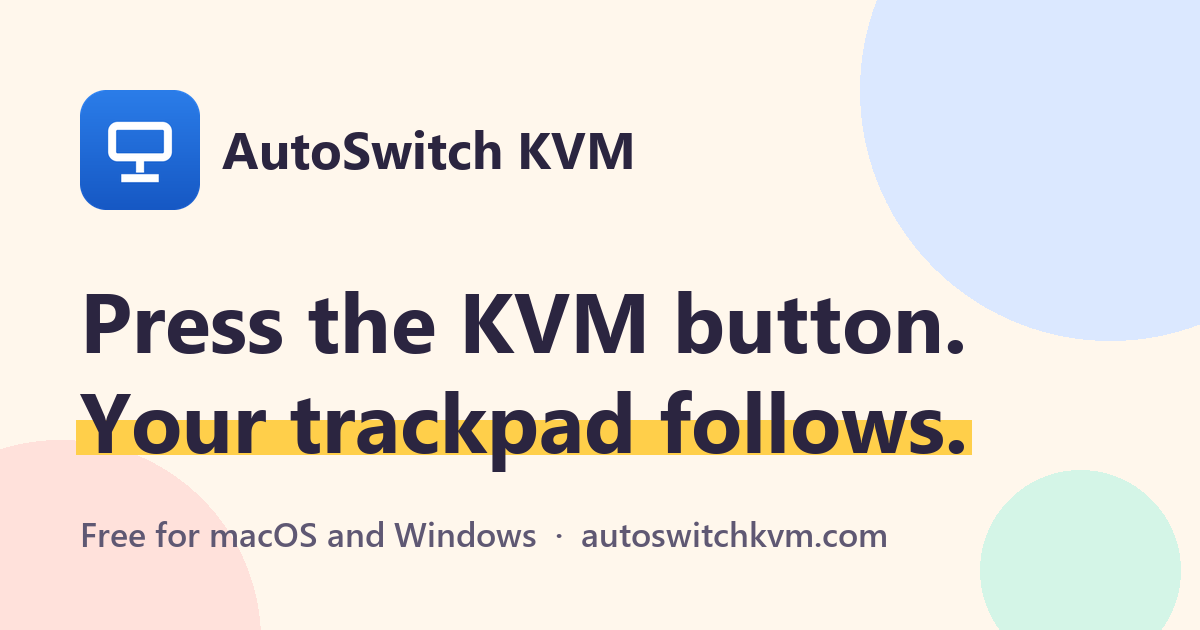
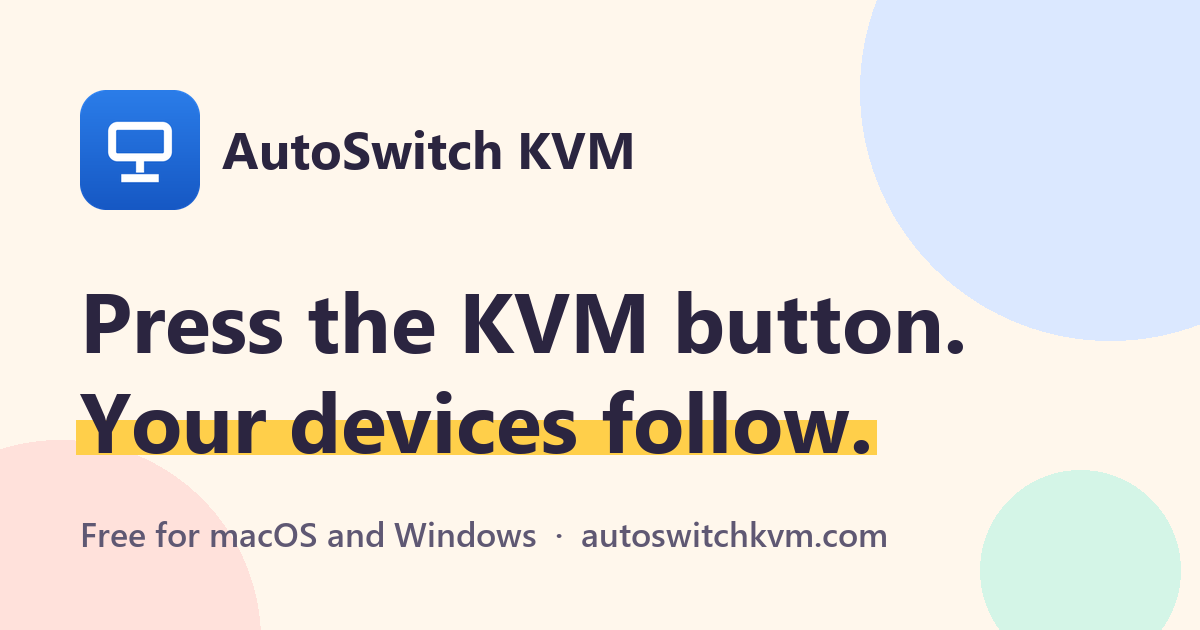
READMEs + website: keyboard, mouse and trackpad (Apple Magic + Logitech Easy-Switch), not trackpad-only
Root/Windows/macOS READMEs and the website hero, a new Works-with section, problem and feature
copy name both supported families (hands off by pairing / switches channel) and point everything
else to the device guide. Social image regenerated. agent-note to osx (light edit in its README).

Changed region(s): [[0.2158, 0.6032, 0.8325, 0.754]]

diff --git a/website/src/assets/css/site.css b/website/src/assets/css/site.css
@@ -349,3 +349,13 @@ p { margin: 0 0 1em; }
 .receiver-tip { margin-top: 24px; background: var(--card); border-radius: var(--radius); padding: 24px 26px; box-shadow: var(--shadow); border-left: 6px solid var(--blue); }
 .receiver-tip h2 { font-size: 1.25rem; margin-bottom: .4em; }
 .receiver-tip p { color: var(--ink-soft); margin: 0; }
+
+/* ---------- Works with (home) ---------- */
+.works { padding-top: clamp(20px, 3vw, 40px); }
+.works__list { list-style: none; padding: 0; margin: 28px 0 0; display: grid; grid-template-columns: repeat(3, 1fr); gap: 18px; }
+@media (max-width: 900px) { .works__list { grid-template-columns: 1fr; } }
+.works__item { background: var(--card); border-radius: var(--radius); padding: 24px; box-shadow: var(--shadow); border-top: 6px solid var(--mint); }
+.works__item--other { border-top-color: var(--lilac); }
+.works__item h3 { font-size: 1.2rem; }
+.works__item p { color: var(--ink-soft); margin: 0 0 .8em; }
+.works__how { font-weight: 800; font-size: .92rem; color: var(--ink) !important; margin: 0 !important; }

diff --git a/website/src/_data/site.js b/website/src/_data/site.js
@@ -3,9 +3,9 @@
 export default {
   name: "AutoSwitch KVM",
   url: "https://autoswitchkvm.com",
-  tagline: "Your Bluetooth trackpad follows your KVM switch.",
+  tagline: "Your Bluetooth keyboard, mouse and trackpad follow your KVM switch.",
   description:
-    "AutoSwitch KVM moves your Bluetooth trackpad, keyboard and mouse to whichever computer your KVM switch picks. Free for macOS and Windows.",
+    "AutoSwitch KVM moves your Bluetooth keyboard, mouse and trackpad to whichever computer your KVM switch picks: Apple Magic accessories, Logitech Easy-Switch devices and more. Free for macOS and Windows.",
   github: "https://github.com/casab/AutoSwitchKVM",
   releases: "https://github.com/casab/AutoSwitchKVM/releases",
   issues: "https://github.com/casab/AutoSwitchKVM/issues",

diff --git a/website/tools/make-og.py b/website/tools/make-og.py
@@ -25,7 +25,7 @@ d.text((222, 112), 'AutoSwitch KVM', font=ImageFont.truetype(BOLD, 52), fill=(43
 title = ImageFont.truetype(BOLD, 84)
 d.text((80, 262), 'Press the KVM button.', font=title, fill=(43, 37, 64))
 y2 = 362
-line2 = 'Your trackpad follows.'
+line2 = 'Your devices follow.'
 w2 = d.textlength(line2, font=title)
 d.rectangle([76, y2 + 58, 84 + w2, y2 + 92], fill=(255, 207, 74))
 d.text((80, y2), line2, font=title, fill=(43, 37, 64))

diff --git a/README.md b/README.md
@@ -1,13 +1,20 @@
 # AutoSwitch KVM
 
-**Your Bluetooth trackpad and keyboard follow your KVM switch.**
+**Your Bluetooth keyboard, mouse and trackpad follow your KVM switch.**
 
 Press the button on your KVM and the other computer gets your monitor, your USB devices *and*
-your Bluetooth trackpad, keyboard or mouse. No trip to Bluetooth settings, no re-pairing by hand.
+your Bluetooth keyboard, mouse or trackpad. No trip to Bluetooth settings, no re-pairing by hand,
+no channel keys to press.
 
 AutoSwitch KVM is a small app that runs in the background on each of your computers (a menu bar
 app on macOS, a tray app on Windows). It notices when the KVM switches to or away from that
-computer and moves your Bluetooth devices along with it.
+computer and moves your Bluetooth devices along with it:
+
+- **Apple Magic Trackpad, Keyboard and Mouse:** it hands the pairing over to the other computer.
+- **Logitech Easy-Switch keyboards and mice** (e.g. K380): it tells the device to switch to the
+  other computer's channel.
+- **Everything else:** it tells you what's possible for the device and shows its status (see
+  [which devices can follow the KVM](#which-bluetooth-devices-can-follow-the-kvm)).
 
 <p align="center">
   <img src="osx/docs/images/menu-bar-panel.png" alt="AutoSwitch KVM menu bar panel on macOS" height="340">
@@ -22,23 +29,27 @@ A KVM switch shares one desk (monitor, keyboard, mouse) between two computers. T
 wired and USB devices, because they're plugged into the KVM. **Bluetooth devices aren't**: they
 stay connected to whichever computer they last paired with.
 
-That's worse for devices like Apple's **Magic Trackpad**, which can only be paired with one
-computer at a time. Getting it from your Mac to your PC normally means:
+So every switch means some manual work, depending on the device:
 
-1. On the Mac: open Bluetooth settings and remove the trackpad.
-2. On the PC: open Bluetooth settings, search, pair.
-3. Switch back later? Do it all again, in the other direction.
+- **One-computer devices** like Apple's **Magic Trackpad** can only be paired with one computer
+  at a time. Moving one means removing it in the first computer's Bluetooth settings, then
+  searching and pairing on the other. Switch back later? All again, the other way.
+- **Multi-channel devices** like Logitech's **Easy-Switch** keyboards and mice remember a
+  channel per computer, but you press the channel key on every device, every time you switch.
 
-AutoSwitch KVM does those steps for you every time the KVM switches.
+AutoSwitch KVM does that work for you every time the KVM switches.
 
 ## What you get
 
 - **Hands-off switching.** Devices connect when your computer is selected and are released when
   it isn't. Nothing to click.
-- **Works with one-host-only devices.** It can unpair on the way out and pair on the way in, so
-  the Magic Trackpad (and devices like it) hand over cleanly.
-- **Several devices.** Trackpad, keyboard, mouse, headphones: choose which follow the KVM and in
-  what order.
+- **Works with one-computer devices.** It unpairs on the way out and pairs on the way in, so the
+  Magic Trackpad, Keyboard and Mouse hand over cleanly.
+- **Speaks Logitech Easy-Switch.** It tells the device to change channel, finds the other
+  computer's channel by itself, and shows which computer is on which channel.
+- **Knows your devices.** Settings shows how each device handles a second computer and whether
+  AutoSwitch can switch it, and suggests the fix when it can't.
+- **Several devices.** Keyboard, mouse, trackpad: choose which follow the KVM and in what order.
 - **Easy setup.** Switch the KVM once and the app learns which USB device tells it which computer
   is selected.
 - **Profiles.** Keep separate setups, for example "Desk" and "Travel", and switch between them.
@@ -59,7 +70,7 @@ warning:
 
 - **macOS:** after the first open is blocked, go to **System Settings ▸ Privacy & Security** and
   click **Open Anyway**. Then allow Bluetooth when the app asks; it can't move your devices
-  without it.
+  without it. For a Logitech Easy-Switch device it also asks once for **Input Monitoring**.
 - **Windows:** on the SmartScreen prompt, click **More info ▸ Run anyway**.
 
 ## Getting started
@@ -68,8 +79,9 @@ warning:
    the KVM switches away from it, so the other computer can pick them up.
 2. **Teach it your KVM.** In Settings, choose *Learn* for the KVM source, then switch the KVM to
    the other computer and back. The app spots the USB device that comes and goes with the switch.
-3. **Add your Bluetooth devices.** For a Magic Trackpad (or anything that only pairs with one
-   computer at a time), turn on **Manage pairing**.
+3. **Add your Bluetooth devices.** AutoSwitch shows how each one switches and sets **Manage
+   pairing** to match: on for a Magic Trackpad (or anything that only pairs with one computer at
+   a time), off for a Logitech Easy-Switch device, which changes channel instead.
 4. **Switch the KVM.** Your devices follow, usually within a few seconds.
 
 Platform guides with more detail: [Windows](windows/README.md) · [macOS](osx/README.md).
@@ -100,8 +112,9 @@ More detail: [autoswitchkvm.com/devices](https://autoswitchkvm.com/devices/).
 
 ## Good to know
 
-- **Which devices work?** Devices that hand off by pairing, like the Apple Magic Trackpad (the
-  hardest case, and the one AutoSwitch is built and tested with). See the table above for the rest.
+- **Which devices work?** Apple Magic accessories (they hand off by pairing) and Logitech
+  Easy-Switch keyboards and mice (they switch channel), on both platforms. The table above covers
+  the rest, and Settings tells you for each device.
 - **Which KVMs work?** Any KVM that switches USB between the computers. Most do, because that's
   how they share your keyboard and mouse.
 - **Why a few seconds?** The computer the KVM switched to has to wait until the other one lets go

diff --git a/osx/README.md b/osx/README.md
@@ -1,6 +1,6 @@
 # AutoSwitch KVM for macOS
 
-**Your Bluetooth trackpad and keyboard follow your KVM switch to this Mac, and leave with it.**
+**Your Bluetooth keyboard, mouse and trackpad follow your KVM switch to this Mac, and leave with it.**
 
 AutoSwitch KVM lives in the menu bar. When your KVM switches to this Mac it connects your Bluetooth
 devices, pairing them first if needed. When the KVM switches away it releases them, so your other
@@ -11,8 +11,8 @@ the same on your PC. See the [project overview](../README.md) for the bigger pic
   <img src="docs/images/menu-bar-panel.png" alt="Menu bar panel: KVM status, each device with its state and switch, Connect all / Disconnect all" width="300">
 </p>
 
-> **Status: stable.** Used every day to move an Apple Magic Trackpad between a Mac and a Windows
-> PC. Bug reports and ideas are welcome on
+> **Status: stable.** Used every day to move an Apple Magic Trackpad and a Logitech K380 between a
+> Mac and a Windows PC. Bug reports and ideas are welcome on
 > [GitHub Issues](https://github.com/casab/AutoSwitchKVM/issues).
 
 ## Install
@@ -69,7 +69,7 @@ switched by a computer. Each device's card in Settings ▸ Devices names its typ
 | **Switches channel on request** | Easy-Switch channels that the connected computer can change. | Logitech K380 and other Easy-Switch devices | **Yes**, with Manage pairing off (needs Input Monitoring). |
 | **Joins whichever computer connects** | Remembers several computers and goes to the one that asks. | Many headphones and speakers | **Yes**, with Manage pairing off: disconnect on leaving, connect on arriving. |
 | **Picks the computer itself** | A pairing per computer; a key on the device picks one. | ZMK/QMK keyboards | **No.** Use the device's own key, or USB through the KVM. AutoSwitch shows its status. |
-| **Re-pairs by hand** | Remembers one computer; moving it needs pairing mode. | Xbox, PlayStation, Nintendo controllers | **No.** Keep it on one computer, or use a cable through the KVM. |
+| **Re-pairs by hand** | Remembers one computer; moving it needs pairing mode. | Xbox, PlayStation, Nintendo controllers | **No.** Keep it on one computer, use a cable through the KVM, or pair it to a Bluetooth-to-USB adapter (e.g. 8BitDo USB Wireless Adapter 2) plugged into the KVM. |
 
 The type comes from the device's vendor and kind as macOS reports them, so it's marked *likely*
 when it's a good guess rather than a known model. For a device AutoSwitch isn't sure about, test

diff --git a/windows/README.md b/windows/README.md
@@ -1,10 +1,12 @@
 # AutoSwitch KVM for Windows
 
-**Your Bluetooth trackpad and keyboard follow your KVM switch to this PC, and leave with it.**
+**Your Bluetooth keyboard, mouse and trackpad follow your KVM switch to this PC, and leave with it.**
 
 AutoSwitch KVM sits in the system tray. When your KVM switches to this PC it connects your
 Bluetooth devices, pairing them first if needed. When the KVM switches away it releases them, so
-your other computer can take over. It's the Windows half of a pair: the
+your other computer can take over: an Apple Magic Trackpad, Keyboard or Mouse by handing over
+its pairing, a Logitech Easy-Switch keyboard or mouse by switching it to the other computer's
+channel. It's the Windows half of a pair: the
 [macOS app](../osx/README.md) does the same on your Mac. See the [project overview](../README.md)
 for the bigger picture.
 
@@ -12,8 +14,8 @@ for the bigger picture.
   <img src="docs/images/tray-panel.png" alt="Tray panel: status, device toggles, profile, Pause / Connect all / Release all" width="300">
 </p>
 
-> **Status: beta.** Used daily on real hardware (Apple Magic Trackpad between a Windows 11 PC and
-> a Mac). Feedback and bug reports are welcome on
+> **Status: beta.** Used daily on real hardware (an Apple Magic Trackpad and a Logitech K380
+> between a Windows 11 PC and a Mac). Feedback and bug reports are welcome on
 > [GitHub Issues](https://github.com/casab/AutoSwitchKVM/issues).
 
 ## Install
@@ -39,7 +41,10 @@ when a new version is ready (in the tray menu, as a notification, and in
    the switch (usually a hub inside the KVM). You can also pick it from a list or type its IDs.
 2. **Devices.** In **Settings ▸ Devices**, choose **Add device** and pick your trackpad, keyboard
    or mouse. AutoSwitch tells you how the device switches and whether it can move it (see below),
-   and sets **Manage pairing** to match. For the **Magic Trackpad** it stays on.
+   and sets **Manage pairing** to match. For the **Magic Trackpad** it stays on. For a **Logitech
+   Easy-Switch** device (e.g. K380) it's off, and the device's row shows **Other computer's
+   channel**: leave it on Automatic when AutoSwitch runs on both computers, or pick the channel
+   (each one is shown with its computer's name).
 3. **Do the same on your other computer**, so it releases the devices when the KVM leaves it.
 
 That's it. Switch the KVM and your devices follow, usually within a few seconds.

diff --git a/agent-notes/2026-11-13-windows-readme-broaden.md b/agent-notes/2026-11-13-windows-readme-broaden.md
@@ -1,0 +1,23 @@
+---
+from: windows
+to: osx
+type: fyi
+status: open
+date: 2026-11-13
+related: [README.md, windows/README.md, osx/README.md, website/src/index.njk]
+---
+
+# READMEs + website: no longer trackpad-only (the user asked; a light edit in osx/README.md)
+
+The user felt the site and READMEs read as if AutoSwitch were only for the trackpad, and asked me
+to update **all** READMEs, the website and the GitHub "About". Done:
+
+- **Root README / website:** the tagline is "Your Bluetooth keyboard, mouse and trackpad follow
+  your KVM switch." The intro and the website hero name both supported families (Apple Magic
+  accessories: hands off by pairing; Logitech Easy-Switch: switches channel) plus "everything
+  else" (status + guide). New "Works with" section on the home page; the problem/features copy is
+  rebalanced; the social image is regenerated.
+- **`osx/README.md` (yours; light touch, please adjust as you like):** the tagline matches; the
+  status line now mentions the K380 alongside the trackpad; the "Re-pairs by hand" row mentions
+  the Bluetooth-to-USB adapter route (as the root README and website do). Nothing else changed.
+- **GitHub About:** description, homepage https://autoswitchkvm.com, and topics.
